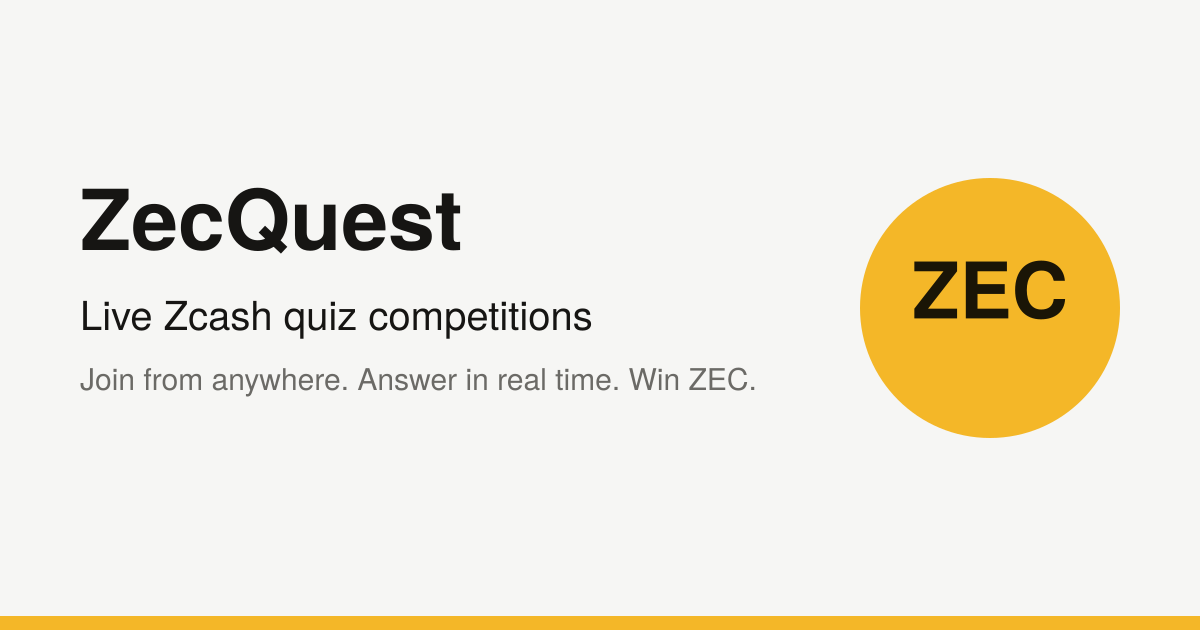
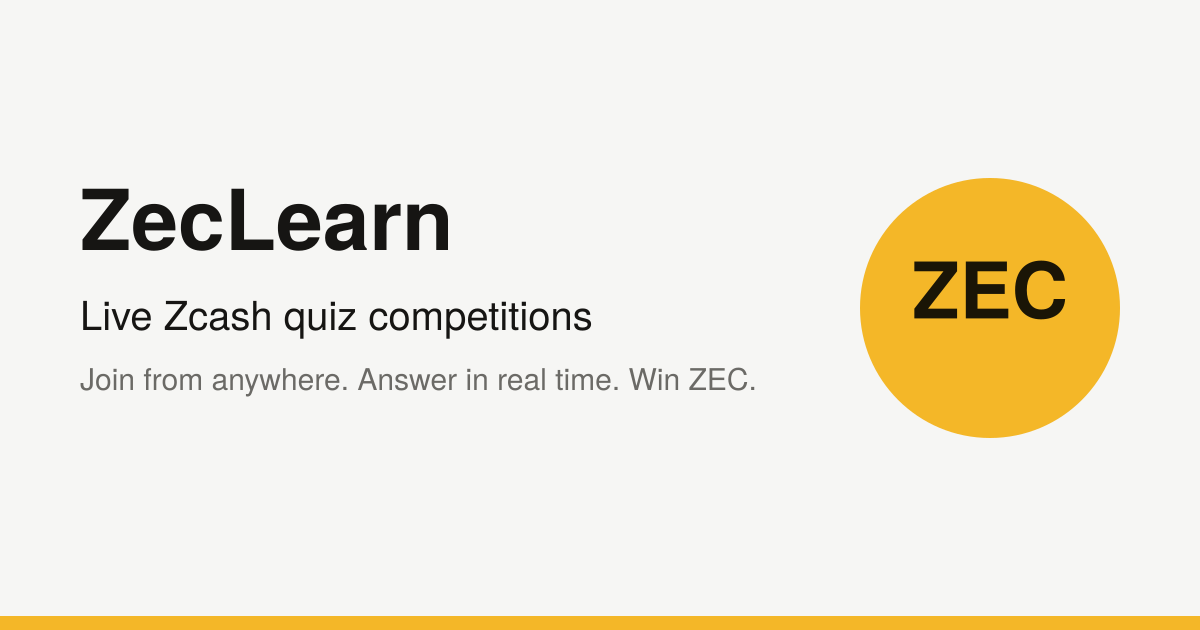
Rename app to ZecLearn and move to zeclearn.com
Claude-Session: https://claude.ai/code/session_01SyZ4JpiJuZQhS3xB97Yiu3

Changed region(s): [[0.185, 0.3016, 0.4008, 0.4222]]

diff --git a/app/terms/page.tsx b/app/terms/page.tsx
@@ -11,8 +11,8 @@ export default function TermsPage() {
         {
           h: { tr: "Hizmet", en: "The service" },
           p: {
-            tr: "ZecQuest, Zcash hakkında bilgi yarışmaları düzenleyen bağımsız bir topluluk platformudur. Hizmet olduğu gibi sunulur.",
-            en: "ZecQuest is an independent community platform that runs Zcash knowledge competitions. The service is provided as is.",
+            tr: "ZecLearn, Zcash hakkında bilgi yarışmaları düzenleyen bağımsız bir topluluk platformudur. Hizmet olduğu gibi sunulur.",
+            en: "ZecLearn is an independent community platform that runs Zcash knowledge competitions. The service is provided as is.",
           },
         },
         {

diff --git a/public/offline.html b/public/offline.html
@@ -3,7 +3,7 @@
   <head>
     <meta charset="utf-8" />
     <meta name="viewport" content="width=device-width, initial-scale=1" />
-    <title>ZecQuest — Offline</title>
+    <title>ZecLearn — Offline</title>
     <style>
       html, body { margin: 0; height: 100%; background: #f6f6f4; color: #161513; font-family: system-ui, sans-serif; }
       main { min-height: 100%; display: flex; flex-direction: column; align-items: center; justify-content: center; text-align: center; padding: 24px; gap: 12px; }

diff --git a/public/sw.js b/public/sw.js
@@ -1,9 +1,9 @@
-/* ZecQuest service worker
+/* ZecLearn service worker
  * - Uygulamayı kurulabilir yapar ve statik dosyaları önbelleğe alır (hızlı açılış)
  * - API / Supabase isteklerine ASLA dokunmaz: oyun verisi her zaman canlıdır
  * - Çevrimdışıyken sayfa açılmaya çalışılırsa basit bir çevrimdışı ekranı gösterir
  */
-const VERSION = "zq-v2";
+const VERSION = "zq-v3";
 const STATIC = `${VERSION}-static`;
 const OFFLINE_URL = "/offline.html";
 

diff --git a/lib/config.ts b/lib/config.ts
@@ -3,7 +3,7 @@
  */
 export const SITE = {
   /** Uygulama adı — henüz kesinleşmedi; değiştirmek için burayı ve public/manifest.webmanifest'i güncelleyin */
-  name: "ZecQuest",
+  name: "ZecLearn",
   /** Resmi Zcash logosu dosyaları (README → "Marka") */
   brand: {
     zcashMark: "/brand/zcash-mark.svg",

diff --git a/README.md b/README.md
@@ -1,4 +1,4 @@
-# ZecQuest (geçici ad) — Global canlı Zcash bilgi yarışması
+# ZecLearn — Global canlı Zcash bilgi yarışması
 
 Dünyanın her yerinden oyuncuların aynı anda katıldığı, sunucu yönetimli canlı Zcash yarışmaları.
 Web sitesi + telefona kurulabilir uygulama (PWA).
@@ -72,7 +72,7 @@ Dosya konana kadar arayüzde yerine sade bir "ZEC" rozeti görünür. Zcash tica
 
 **E-posta ile kod (OTP)** — *Authentication → Emails → Magic Link* şablonuna kodu ekle:
 ```html
-<h2>ZecQuest giriş kodun</h2>
+<h2>ZecLearn giriş kodun</h2>
 <p>Kodun: <strong>{{ .Token }}</strong></p>
 <p>Ya da bu bağlantıya tıkla: <a href="{{ .ConfirmationURL }}">Giriş yap</a></p>
 ```
